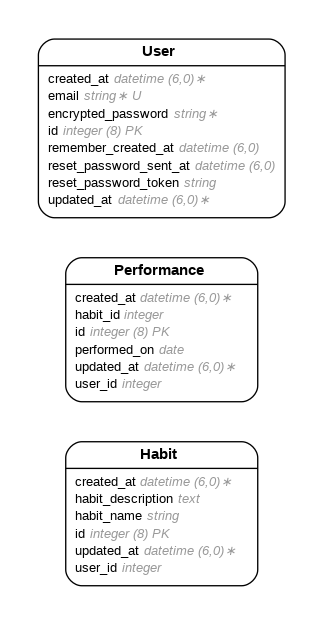
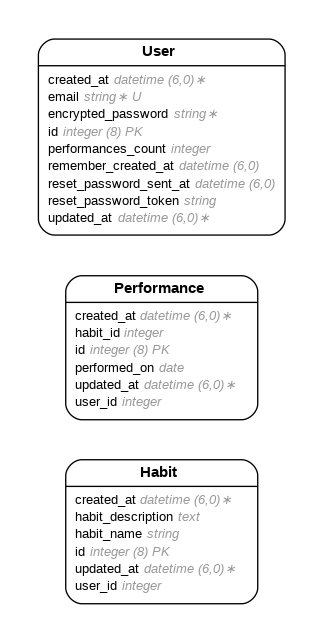
restored og settings

Changed region(s): [[0.0929, 0.0608, 0.8978, 0.6688], [0.1858, 0.6992, 0.805, 0.9424]]

diff --git a/app/controllers/performances_controller.rb b/app/controllers/performances_controller.rb
@@ -19,10 +19,10 @@ class PerformancesController < ApplicationController
 
   def create
     the_performance = Performance.new
-    # the_performance.created_at = params.fetch("query_created_at")
-    # the_performance.updated_at = params.fetch("query_updated_at")
+    the_performance.created_at = params.fetch("query_created_at")
+    the_performance.updated_at = params.fetch("query_updated_at")
     the_performance.habit_id = params.fetch("query_habit_id")
-    # the_performance.user_id = params.fetch("query_user_id")
+    the_performance.user_id = params.fetch("query_user_id")
     the_performance.performed_on = params.fetch("query_performed_on")
 
     if the_performance.valid?
@@ -64,5 +64,10 @@ class PerformancesController < ApplicationController
   def log
     render({ :template => "performances/log_performance" })
   end
+
+  def new
+    render({ :template => "performances/new" })
+  end
+
 #----------------END OF MY CUSTOM CODE-----------------------
 end

diff --git a/db/schema.rb b/db/schema.rb
@@ -10,7 +10,7 @@
 #
 # It's strongly recommended that you check this file into your version control system.
 
-ActiveRecord::Schema[7.1].define(version: 2025_05_26_024323) do
+ActiveRecord::Schema[7.1].define(version: 2025_05_26_072225) do
   # These are extensions that must be enabled in order to support this database
   enable_extension "plpgsql"
 
@@ -38,6 +38,7 @@ ActiveRecord::Schema[7.1].define(version: 2025_05_26_024323) do
     t.string "reset_password_token"
     t.datetime "reset_password_sent_at"
     t.datetime "remember_created_at"
+    t.integer "performances_count"
     t.index ["email"], name: "index_users_on_email", unique: true
     t.index ["reset_password_token"], name: "index_users_on_reset_password_token", unique: true
   end

diff --git a/config/routes.rb b/config/routes.rb
@@ -66,5 +66,6 @@ Rails.application.routes.draw do
   # This is a blank app! Pick your first screen, build out the RCAV, and go from there. E.g.:
   get("/tracker", { :controller => "tracker", :action => "index" })
   # get "/your_first_screen" => "pages#first"
-  get("/log_performance", { :controller => "performances", :action => "log" })  
+  get("/log_performance", { :controller => "performances", :action => "log" }) 
+  get("/new", { :controller => "performances", :action => "new" })  
 end

diff --git a/app/models/user.rb b/app/models/user.rb
@@ -5,6 +5,7 @@
 #  id                     :bigint           not null, primary key
 #  email                  :string           default(""), not null
 #  encrypted_password     :string           default(""), not null
+#  performances_count     :integer
 #  remember_created_at    :datetime
 #  reset_password_sent_at :datetime
 #  reset_password_token   :string

diff --git a/db/migrate/20250526072225_add_performances_count_to_user.rb b/db/migrate/20250526072225_add_performances_count_to_user.rb
@@ -1,0 +1,5 @@
+class AddPerformancesCountToUser < ActiveRecord::Migration[7.1]
+  def change
+    add_column :users, :performances_count, :integer
+  end
+end
